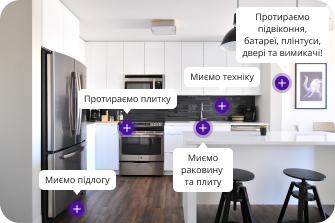
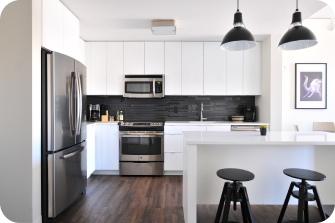
add start code for toolkit

diff --git a/src/partials/questions.html b/src/partials/questions.html
@@ -5,7 +5,7 @@
     <ul class="questions__list">
       <li class="questions__item questions__item--first">
         <div class="question-wrapper"><h4 class="question__title">Скільки коштує клінінг?</h4>
-          <button type="button" class="toggle-question-btn">
+          <button type="button" class="toggle-question-btn plus-btn">
               <svg class="toggle-question-icon icon--plus" width="23" height="23" aria-label="перемикач покащати/приховати відповідь на запитання">
                 <use href="./images/sprite.svg#icon-plus"></use>
               </svg>
@@ -22,7 +22,7 @@
       </li>
     <li class="questions__item">
       <div class="question-wrapper"><h4 class="question__title">Якими засобами користуємося?</h4>
-        <button type="button" class="toggle-question-btn">
+        <button type="button" class="toggle-question-btn plus-btn">
               <svg class="toggle-question-icon icon--plus" width="23" height="23" aria-label="перемикач покащати/приховати відповідь на запитання">
                 <use href="./images/sprite.svg#icon-plus"></use>
               </svg>
@@ -38,7 +38,7 @@
     </li>
     <li class="questions__item">
       <div class="question-wrapper"><h4 class="question__title">Скільки годин триває прибирання?</h4>
-        <button type="button" class="toggle-question-btn">
+        <button type="button" class="toggle-question-btn plus-btn">
               <svg class="toggle-question-icon icon--plus" width="23" height="23" aria-label="перемикач покащати/приховати відповідь на запитання">
                 <use href="./images/sprite.svg#icon-plus"></use>
               </svg>
@@ -53,7 +53,7 @@
       </li>
     <li class="questions__item">
       <div class="question-wrapper"><h4 class="question__title">Що таке підписка на прибирання?</h4>
-       <button type="button" class="toggle-question-btn">
+       <button type="button" class="toggle-question-btn plus-btn">
               <svg class="toggle-question-icon icon--plus" width="23" height="23" aria-label="перемикач покащати/приховати відповідь на запитання">
                 <use href="./images/sprite.svg#icon-plus"></use>
               </svg>
@@ -68,7 +68,7 @@
     </li>
     <li class="questions__item">
       <div class="question-wrapper"><h4 class="question__title">Яка гарантія якісного прибрання?</h4>
-        <button type="button" class="toggle-question-btn">
+        <button type="button" class="toggle-question-btn plus-btn">
               <svg class="toggle-question-icon icon--plus" width="23" height="23" aria-label="перемикач покащати/приховати відповідь на запитання">
                 <use href="./images/sprite.svg#icon-plus"></use>
               </svg>
@@ -84,7 +84,7 @@
     <li class="questions__item">
       <div class="question-wrapper"><h4 class="question__title">Як замовити та оплатити прибирання?</h4>
         
-        <button type="button" class="toggle-question-btn">
+        <button type="button" class="toggle-question-btn plus-btn">
               <svg class="toggle-question-icon icon--plus" width="23" height="23" aria-label="перемикач покащати/приховати відповідь на запитання">
                 <use href="./images/sprite.svg#icon-plus"></use>
               </svg>

diff --git a/src/partials/cleaning-types.html b/src/partials/cleaning-types.html
@@ -21,27 +21,43 @@
         <li class="rooms__item ">Санвузол</li>
     </ul>
     <div class="rooms__shema">
-    <picture class="rooms__image">
+      <picture class="rooms__image">
               <source
                 srcset="
-                  ./images/reviews/tablet/star@1x.png 1x,
-                  ./images/reviews/tablet/star@2x.png 2x
+                  ./images/cleaning-types/mobile/kitchen@1x.png 1x,
+                  ./images/cleaning-types/mobile/kitchen@2x.png 2x
+                "
+                media="(max-width: 767px)"
+              />
+              <source
+                srcset="
+                  ./images/cleaning-types/tablet/kitchen@1x.png 1x,
+                  ./images/cleaning-types/tablet/kitchen@2x.png 2x
                 "
                 media="(max-width: 1439px)"
               />
               <source
                 srcset="
-                  ./images/reviews/desktop/star@1x.png 1x,
-                  ./images/reviews/desktop/star@2x.png 2x
+                  ./images/cleaning-types/desktop/kitchen@1x.png 1x,
+                  ./images/cleaning-types/desktop/kitchen@2x.png 2x
                 "
                 media="(min-width: 1440px)"
               />
               <img
-                class="rating__icon"
-                src="./images/reviews/tablet/star@1x.png"
-                alt="Жовта зірка"
+                class=""
+                src="./images/cleaning-types/desktop/kitchen@1x.png"
+                alt="Фото кухні"
               />
-    </picture>
+      </picture>
+      <div class="toolkit__wrapper wrapper--first">
+        <span class="toolkit__desc">Миємо підлогу</span>
+        <button type="button" class="plus-btn toolkit__btn">
+              <svg class="toolkit__icon " width="18" height="18" aria-label="показати вид робіт, що надається">
+                <use href="./images/sprite.svg#icon-plus"></use>
+              </svg>
+              </svg>
+        </button>
+      </div>
     </div>
    
 

diff --git a/src/sass/components/_cleaning-types.scss b/src/sass/components/_cleaning-types.scss
@@ -167,8 +167,100 @@ text-align: justify;
 }
 
 .rooms__shema {
+  position: relative;
   border-radius: 20px;
   @media screen and (min-width: 768px) {
     border-radius: 30px;
   }
 }
+
+.toolkit__icon {
+  width: 13px;
+  height: 13px;
+  z-index: 2;
+
+  @media screen and (min-width: 768px) {
+    width: 18px;
+    height: 18px;
+  }
+}
+
+.toolkit__btn::before {
+  content:'';
+  z-index: 1;
+  position: absolute;
+  border-radius: 50%;
+  background-color: $light-accent-color;
+  width: 20px;
+  height: 20px;
+  
+  @media screen and (min-width: 768px) {
+      width: 28px;
+      height: 28px;
+  }
+
+}
+
+.toolkit__btn {
+  position: relative;
+  top: 95%;
+  left:50%;
+  transform: translate(-50%,-100%);
+}
+
+.toolkit__desc {
+  position:relative;
+  display: block;
+  margin-bottom: 9px;
+  background-color: $primary-white-color;
+  border-radius: 5px;
+  padding: 4px 6px;
+  font-size: 9px;
+  line-height: 1.33;
+  @media screen and (min-width: 768px) {
+    margin-bottom: 14px;
+    padding: 7px 10px;
+    font-size: 13px;
+    line-height: 1.38;
+  }
+
+}
+
+.toolkit__desc:after {
+  content: ' ';
+  position: absolute;
+  width: 0;
+  height: 0;
+  left:0;
+  top:0;
+  border: 5px solid transparent;
+  border-top: 5px solid $primary-white-color;
+  top: 100%;
+  left: 50%;
+  transform: translate(-50%, 0);
+}
+
+.toolkit__wrapper {
+  position: relative;
+  display: flex;
+  flex-direction: column;
+}
+
+ .wrapper--first {
+  position: absolute;
+  bottom: 4px;
+  left: 39px;
+   width: 77px;
+   height: 49px;
+
+   @media screen and (min-width: 768px) {
+     width: 114px;
+     height: 70px;
+      bottom: 16px;
+      left: 168px;
+   }
+  @media screen and (min-width: 768px) {
+      bottom: 64px;
+      left: 316px;
+  }
+ }

diff --git a/src/sass/components/_questions.scss b/src/sass/components/_questions.scss
@@ -109,17 +109,23 @@
     height: 29px;
   }
 }
+
+
+
 .toggle-question-btn {
-  position:absolute;
-  display: flex;
-  align-items: center;
-  justify-content: center;
   top:50%;
   left:100%;
   transform: translate(-100%,-50%);
+  
+}
+
+.plus-btn {
+  position: absolute;
+  display: flex;
+  align-items: center;
+  justify-content: center;
   border: none;
   background-color: transparent;
-  
 }
 
 .icon--minus {

diff --git a/src/sass/components/_connection.scss b/src/sass/components/_connection.scss
@@ -130,8 +130,8 @@
    @media screen and (min-width: 1440px) {
       font-family: 'Open Sans', sans-serif;
       font-weight: 700;
-
       line-height: 1.35;
       font-size: 20px;
     }
  }
+

diff --git a/src/sass/utils/_variables.scss b/src/sass/utils/_variables.scss
@@ -1,4 +1,5 @@
 $main-accent-color: #4D1299;
+$light-accent-color: rgba(	77,18,153,0.3);
 $additional-accent-color: #FF8427;
 $primary-white-color: #FFFFFF;
 $primary-black-color: #1B1B1B;
